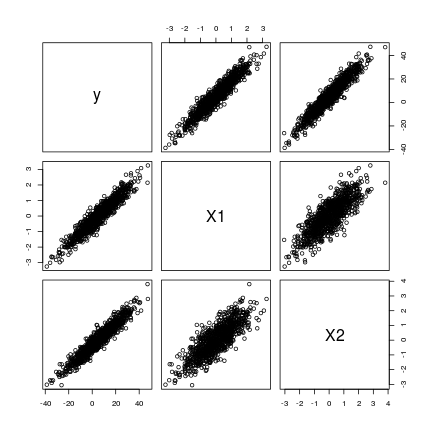
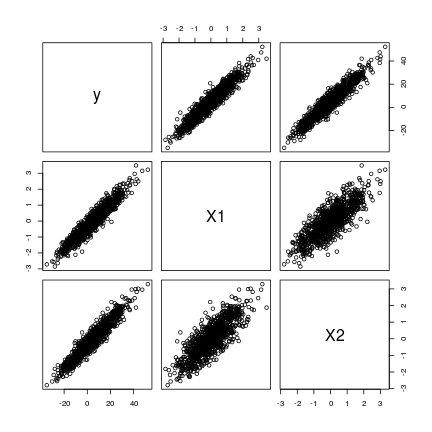
fixed figure paths

diff --git a/_posts/2013-12-13-collinear.md b/_posts/2013-12-13-collinear.md
@@ -23,7 +23,7 @@ This post is about collinearity and the implications for linear models. The best
 
 The first problem for this simulation was: How can we create correlated random variables?
 
-This simulation is similar to the one in Dormann (2013), where it is also mentioned that one could use Cholesky Decompostion to create correlated variables:
+This simulation is similar to the one in Dormann (2013), where it is also mentioned that one could use Cholesky Decompostion to create correlated variables: 
 
 What this function function does:
 
@@ -82,9 +82,9 @@ cor(df1)
 
 {% highlight text %}
 ##          y      X1      X2
-## y  1.00000 0.94954 0.95340
-## X1 0.94954 1.00000 0.81895
-## X2 0.95340 0.81895 1.00000
+## y  1.00000 0.94741 0.94546
+## X1 0.94741 1.00000 0.80073
+## X2 0.94546 0.80073 1.00000
 {% endhighlight %}
 
 And the data follows the specified model.
@@ -103,19 +103,19 @@ summary(mod)
 ## 
 ## Residuals:
 ##     Min      1Q  Median      3Q     Max 
-## -3.1176 -0.6008  0.0208  0.6317  2.8495 
+## -3.1123 -0.6223  0.0017  0.6440  2.6804 
 ## 
 ## Coefficients:
 ##             Estimate Std. Error t value Pr(>|t|)    
-## (Intercept)   5.0310     0.0297     169   <2e-16 ***
-## X1            6.9034     0.0502     138   <2e-16 ***
-## X2            7.0659     0.0493     143   <2e-16 ***
+## (Intercept)   4.9953     0.0310     161   <2e-16 ***
+## X1            7.0114     0.0501     140   <2e-16 ***
+## X2            6.9552     0.0506     137   <2e-16 ***
 ## ---
 ## Signif. codes:  0 '***' 0.001 '**' 0.01 '*' 0.05 '.' 0.1 ' ' 1
 ## 
-## Residual standard error: 0.94 on 997 degrees of freedom
+## Residual standard error: 0.98 on 997 degrees of freedom
 ## Multiple R-squared:  0.995,	Adjusted R-squared:  0.995 
-## F-statistic: 1.09e+05 on 2 and 997 DF,  p-value: <2e-16
+## F-statistic: 9.66e+04 on 2 and 997 DF,  p-value: <2e-16
 {% endhighlight %}
 
 
@@ -124,7 +124,7 @@ summary(mod)
 pairs(df1)
 {% endhighlight %}
 
-![plot of chunk example_datagen3](figures/source/2013-12-13-collinear/example_datagen3-1.png) 
+![plot of chunk example_datagen3](../figures/source/2013-12-13-collinear/example_datagen3-1.png) 
 
 
 ### Methods to spot collinearity
@@ -141,8 +141,8 @@ Dormann lists eight methods to spot collinearity (see their Table 1). I will onl
 
 {% highlight text %}
 ##         X1      X2
-## X1 1.00000 0.81895
-## X2 0.81895 1.00000
+## X1 1.00000 0.80073
+## X2 0.80073 1.00000
 {% endhighlight %}
 
 Dormann (2013) found that 'coefficients between predictor variables of r > 0.7 was an appropriate indicator for when collinearity begins to severely distort model estimation'.
@@ -159,7 +159,7 @@ vif(mod)
 
 {% highlight text %}
 ##     X1     X2 
-## 3.0365 3.0365
+## 2.7868 2.7868
 {% endhighlight %}
 
 Which is equivalent to (for variable X1):
@@ -172,7 +172,7 @@ sum <- summary(lm(X1 ~ X2, data = df1))
 
 
 {% highlight text %}
-## [1] 3.0365
+## [1] 2.7868
 {% endhighlight %}
 
 Unfortunately there are many 'rules of thumb' associated with VIF: > 10, > 4, ...
@@ -223,7 +223,7 @@ ggplot(ses_m, aes(x = ps, y = value)) +
   xlab('Correlation')
 {% endhighlight %}
 
-![plot of chunk plot1](figures/source/2013-12-13-collinear/plot1-1.png) 
+![plot of chunk plot1](../figures/source/2013-12-13-collinear/plot1-1.png) 
 
 It can be clearly seen, that collinearity inflates the Standard Errors for the correlated variables. The intercept is not affected.
 
@@ -274,7 +274,7 @@ ggplot(ests, aes(y = value, x=factor(p))) +
   xlab('Correlation')
 {% endhighlight %}
 
-![plot of chunk plot2](figures/source/2013-12-13-collinear/plot2-1.png) 
+![plot of chunk plot2](../figures/source/2013-12-13-collinear/plot2-1.png) 
 The red line indicates the coefficients after the data has been generated (7 * X1 and 7 * X2). We see that the spread of estimates increases as correlation increases.
 
 
@@ -282,18 +282,8 @@ This is confirmed by looking at the standard deviation of the estimates:
 
 {% highlight r %}
 sds <- data.frame(ps, t(sapply(res2, function(x) apply(x[, 2:4], 2, sd))))
+require(reshape2)
 sds_m <- melt(sds, id.vars='ps')
-{% endhighlight %}
-
-
-
-{% highlight text %}
-## Error in eval(expr, envir, enclos): could not find function "melt"
-{% endhighlight %}
-
-
-
-{% highlight r %}
 ggplot(sds_m, aes(x = ps, y = value)) +
   geom_point(size = 3) +
   facet_wrap(~variable) +
@@ -302,11 +292,7 @@ ggplot(sds_m, aes(x = ps, y = value)) +
   xlab('Correlation')
 {% endhighlight %}
 
-
-
-{% highlight text %}
-## Error in eval(expr, envir, enclos): could not find function "ggplot"
-{% endhighlight %}
+![plot of chunk plot3](../figures/source/2013-12-13-collinear/plot3-1.png) 
 
 
 If the standard errors are large enough it may happen that parameter estimates may be so variable that even their sign is changed.

diff --git a/_posts/2013-06-09-disp-weight.md b/_posts/2013-06-09-disp-weight.md
@@ -20,7 +20,7 @@ When analysing multivariate community data the first step is often to transform 
 * Presence/Absence
 * and manymany more
 
-However these are all global transformations (applied to every species in the dataset).
+However these are all global transformations (applied to every species in the dataset). 
 
 In an email discussion with Bob Clarke he pointed me to one of his papers [Clarke et al. 2006](http://dx.doi.org/10.3354/meps320011):
 
@@ -80,7 +80,7 @@ ordihull(un_nmds, groups = dune.env$Management, lty = 'dotted')
 ordispider(un_nmds, groups = dune.env$Management, label = TRUE)
 {% endhighlight %}
 
-![plot of chunk plot_raw](figures/source/2013-06-09-disp-weight/plot_raw-1.png) 
+![plot of chunk plot_raw](../figures/source/2013-06-09-disp-weight/plot_raw-1.png) 
 
 
 Lets run the NMDS on dispersion-weighted abundances:

diff --git a/_posts/2013-04-08-quant-ecotox-17.md b/_posts/2013-04-08-quant-ecotox-17.md
@@ -15,7 +15,7 @@ tags: QETXR R
 This is example 4.10 on page 180 of [Quantitative Ecotoxicology](http://www.crcpress.com/product/isbn/9781439835647). A follow-up to [example 4.9](http://edild.github.io/blog/2013/04/06/quant-ecotox-16/).
 
 #### Data
-We use data from the [previous example](http://edild.github.io/blog/2013/04/06/quant-ecotox-16/) and also convert the concentrations into a factor:
+We use data from the [previous example](http://edild.github.io/blog/2013/04/06/quant-ecotox-16/) and also convert the concentrations into a factor: 
 
 {% highlight r %}
 # download data from github
@@ -142,7 +142,7 @@ df
 ##         .Call(C_df, x, df1, df2, log)
 ##     else .Call(C_dnf, x, df1, df2, ncp, log)
 ## }
-## <bytecode: 0x3754748>
+## <bytecode: 0x462cc50>
 ## <environment: namespace:stats>
 {% endhighlight %}
 

diff --git a/_posts/2013-02-25-quant-ecotox-13.md b/_posts/2013-02-25-quant-ecotox-13.md
@@ -11,7 +11,7 @@ tags: QETXR R
 
 
 
-This is about example 4.3 on page 147 of [Quantitative Ecotoxicology](http://www.crcpress.com/product/isbn/9781439835647). This example is about Calculations of $LC_{50}$ values.
+This is about example 4.3 on page 147 of [Quantitative Ecotoxicology](http://www.crcpress.com/product/isbn/9781439835647). This example is about Calculations of $LC_{50}$ values. 
 In this post I won't reproduce the SAS-Code since I do not have any experience with SAS PROC PROBIT and I do not fully understand whats happening there.
 
 Instead I will fit Dose-Response-Models using the `drc`-package to this data.

diff --git a/_posts/2013-02-24-quant-ecotox-11.md b/_posts/2013-02-24-quant-ecotox-11.md
@@ -12,7 +12,7 @@ tags: QETXR R
 
 
 
-This is example 3.7 on page 108 of [Quantitative Ecotoxicology](http://www.crcpress.com/product/isbn/9781439835647) - reproduced with R. This example is about accumulation in mosquitofish (*Gambusia holbrooki*).
+This is example 3.7 on page 108 of [Quantitative Ecotoxicology](http://www.crcpress.com/product/isbn/9781439835647) - reproduced with R. This example is about accumulation in mosquitofish (*Gambusia holbrooki*). 
 
 Get the data from [here](https://raw.github.com/EDiLD/r-ed/master/quantitative_ecotoxicology/data/p108.csv) and read it into R:
 

diff --git a/_posts/2013-02-24-quant-ecotox-12.md b/_posts/2013-02-24-quant-ecotox-12.md
@@ -46,7 +46,7 @@ head(ACCUM)
 Again we have two columns: One for the time and one for the concentration.
 
 
-We fit can same model as in [example 3.7](http://edild.github.com/blog/2013/02/24/quant-ecotox-11/) to this data. The uptake $(k_u)$ and elimination $(k_e)$ constants are estimated simultaneously (at the same time):
+We fit can same model as in [example 3.7](http://edild.github.com/blog/2013/02/24/quant-ecotox-11/) to this data. The uptake $(k_u)$ and elimination $(k_e)$ constants are estimated simultaneously (at the same time): 
 
 
 

diff --git a/_posts/2013-02-24-quant-ecotox-10.md b/_posts/2013-02-24-quant-ecotox-10.md
@@ -15,7 +15,7 @@ tags: QETXR R
 
 This is example 3.6 on page 101 of [Quantitative Ecotoxicology](http://www.crcpress.com/product/isbn/9781439835647) - reproduced with R. This example is about adsorption and how to fit an adsorption model to data.
 
-Get the data from [here](https://raw.github.com/EDiLD/r-ed/master/quantitative_ecotoxicology/data/p101.csv) and read it into R:
+Get the data from [here](https://raw.github.com/EDiLD/r-ed/master/quantitative_ecotoxicology/data/p101.csv) and read it into R: 
 
 
 {% highlight r %}

diff --git a/_posts/2013-04-06-quant-ecotox-16.md b/_posts/2013-04-06-quant-ecotox-16.md
@@ -12,7 +12,7 @@ tags: QETXR R
 
 
 
-This is example 4.9 on page 178 of [Quantitative Ecotoxicology](http://www.crcpress.com/product/isbn/9781439835647) - time-to-death data.
+This is example 4.9 on page 178 of [Quantitative Ecotoxicology](http://www.crcpress.com/product/isbn/9781439835647) - time-to-death data. 
 
 Thankfully, Prof. Newman provided me the data for this example. You can get it from the github-repo ([TOXICTY.csv](https://raw.github.com/EDiLD/r-ed/master/quantitative_ecotoxicology/data/TOXICITY.csv)).
 

diff --git a/_posts/2013-03-11-quant-ecotox-14.md b/_posts/2013-03-11-quant-ecotox-14.md
@@ -11,7 +11,7 @@ tags: QETXR R
 
 
 
-This is example 4.6 on page 159 of [Quantitative Ecotoxicology](http://www.crcpress.com/product/isbn/9781439835647). It is about how to deal with control mortalities.
+This is example 4.6 on page 159 of [Quantitative Ecotoxicology](http://www.crcpress.com/product/isbn/9781439835647). It is about how to deal with control mortalities. 
 
 
 First we need the data:

diff --git a/_posts/2013-09-26-quant-ecotox-19.md b/_posts/2013-09-26-quant-ecotox-19.md
@@ -11,7 +11,7 @@ tags: QETXR R
 
 
 
-This is example 4.14 on page 199 of [Quantitative Ecotoxicology](http://www.crcpress.com/product/isbn/9781439835647) - reproduced with R. 
+This is example 4.14 on page 199 of [Quantitative Ecotoxicology](http://www.crcpress.com/product/isbn/9781439835647) - reproduced with R.
 
 ### Introduction
 

diff --git a/_posts/2013-03-18-quant-ecotox-15.md b/_posts/2013-03-18-quant-ecotox-15.md
@@ -13,7 +13,7 @@ tags: QETXR R
 
 This is a short one (example 4.7 on page 1621 of [Quantitative Ecotoxicology](http://www.crcpress.com/product/isbn/9781439835647)). 
 
-First we create the data as matrix:
+First we create the data as matrix: 
 
 {% highlight r %}
 TEST <- matrix(c(1,19,6,14), byrow=TRUE, ncol = 2, 
